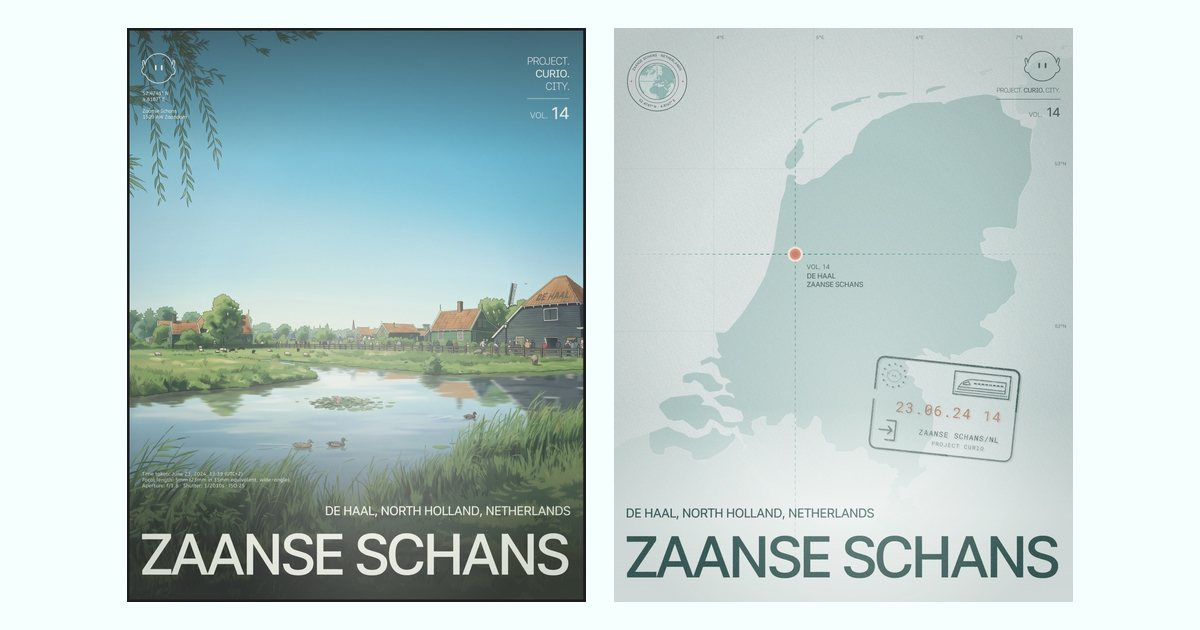
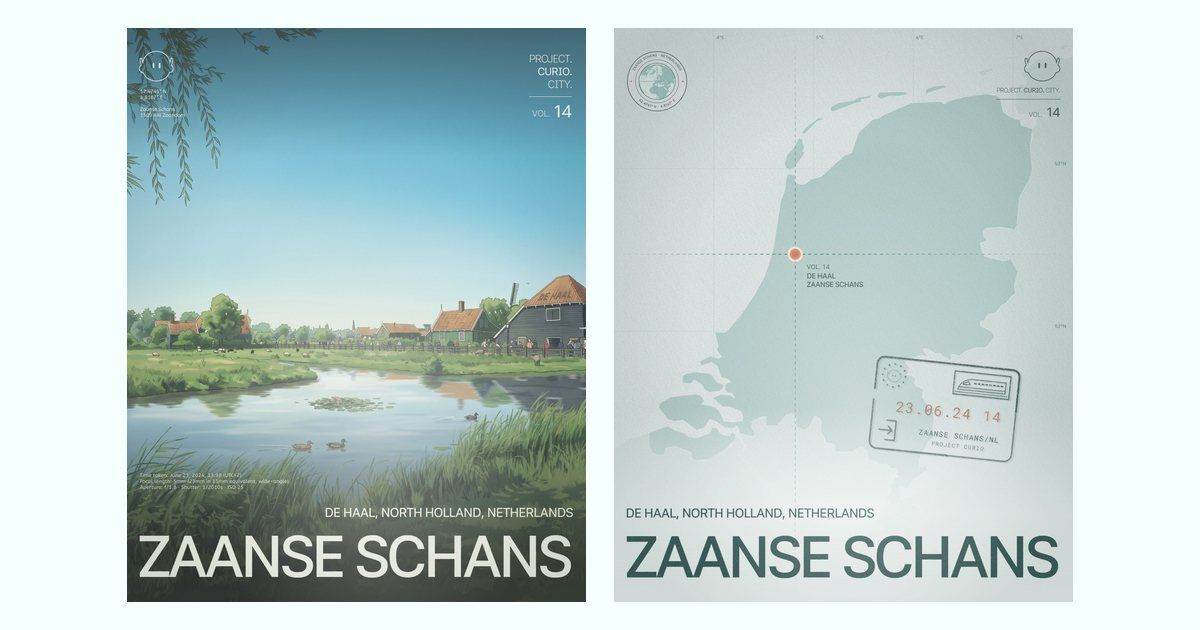
VOL 14 커버·리뷰를 1080×1350으로 맞춤 (프레임 밖 효과 잘라냄)
피그마 프레임은 1080×1350이었지만 clipsContent가 꺼져 있어 바깥으로 넘친 효과 때문에 내보내기가 1092×1362로 나왔음. 프레임 자르기를 켜서 내보내기 크기를 1080×1350으로 맞추고 사이트 이미지를 다시 반영.

Claude-Session: https://claude.ai/code/session_01K6AaiKqPaKakeUuLi7WwMe

diff --git a/index.html b/index.html
@@ -176,8 +176,8 @@
       <li class="step-arrow" aria-hidden="true"><svg viewBox="0 0 115 20" fill="none" stroke="currentColor" stroke-width="3"><path d="M0 10H111" stroke-dasharray="6 6"/><path d="M104 3l7 7-7 7" stroke-linecap="round" stroke-linejoin="round"/></svg></li>
       <li class="step step-pair">
         <div class="pair">
-          <img src="assets/vol/VOL07_cover.jpg?v=202611091258" alt="Finished OTARU cover" loading="lazy">
-          <img src="assets/vol/VOL07_review.jpg?v=202611091258" alt="OTARU review cut with Curio's speech bubbles" loading="lazy">
+          <img src="assets/vol/VOL07_cover.jpg?v=202611091302" alt="Finished OTARU cover" loading="lazy">
+          <img src="assets/vol/VOL07_review.jpg?v=202611091302" alt="OTARU review cut with Curio's speech bubbles" loading="lazy">
         </div>
         <p class="step-cap"><span>03 SYSTEMATIC PUBLISHING</span>Every cover and review cut is set on the same grid,<br>type and metadata fields, with Curio's speech<br>bubbles on the review.</p>
       </li>

diff --git a/js/data.js b/js/data.js
@@ -68,4 +68,4 @@ window.CURIO_STAMP_CITY = {
 };
 
 // 캐시 값 — tools/release.py가 이미지 변경을 감지해 자동 갱신
-window.CURIO_IMG_V = "202611091258";
+window.CURIO_IMG_V = "202611091302";
